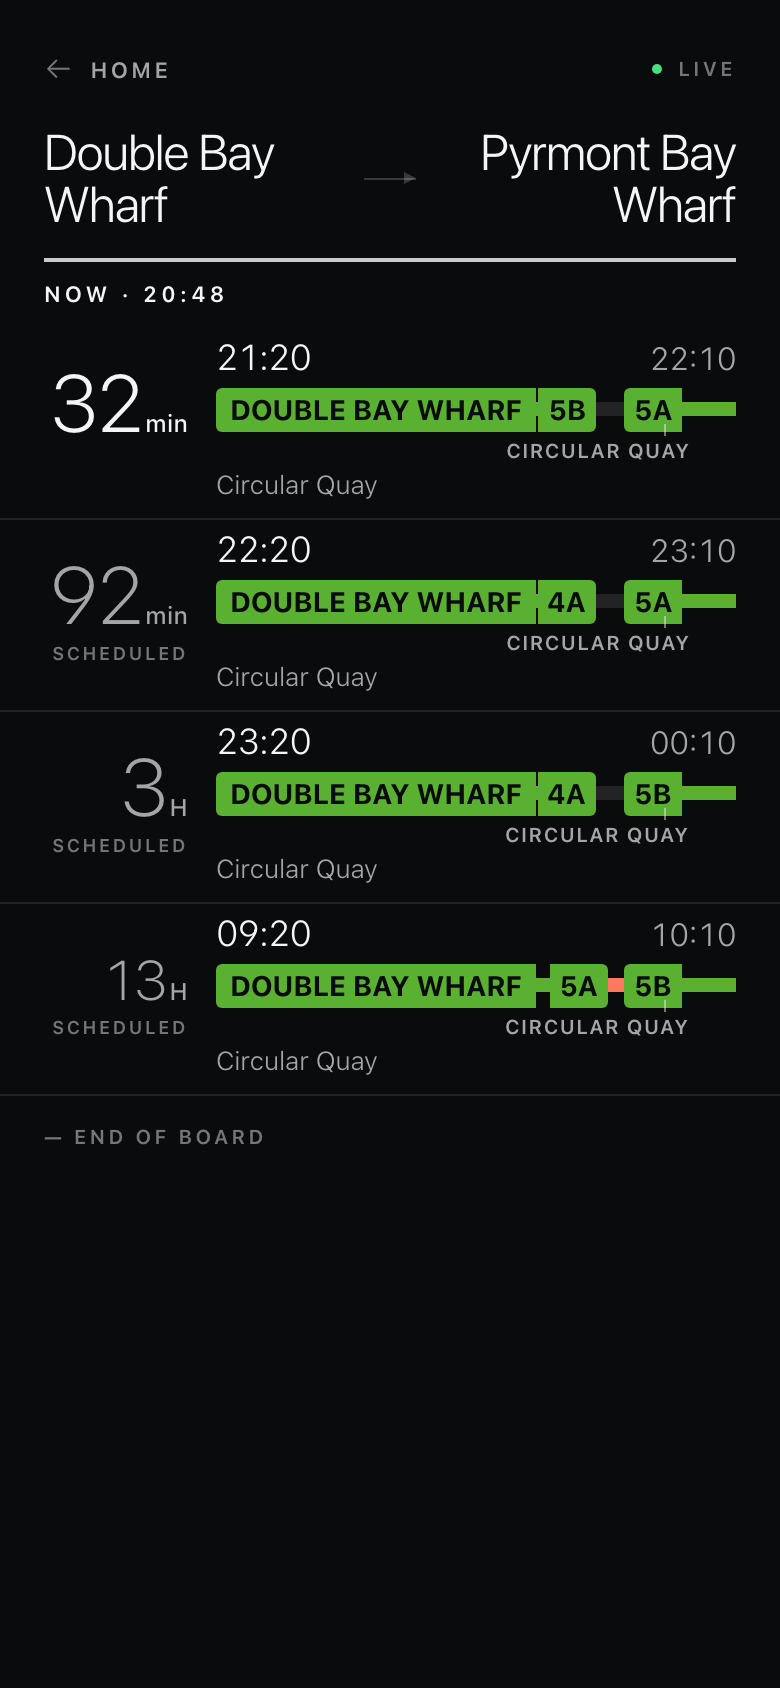
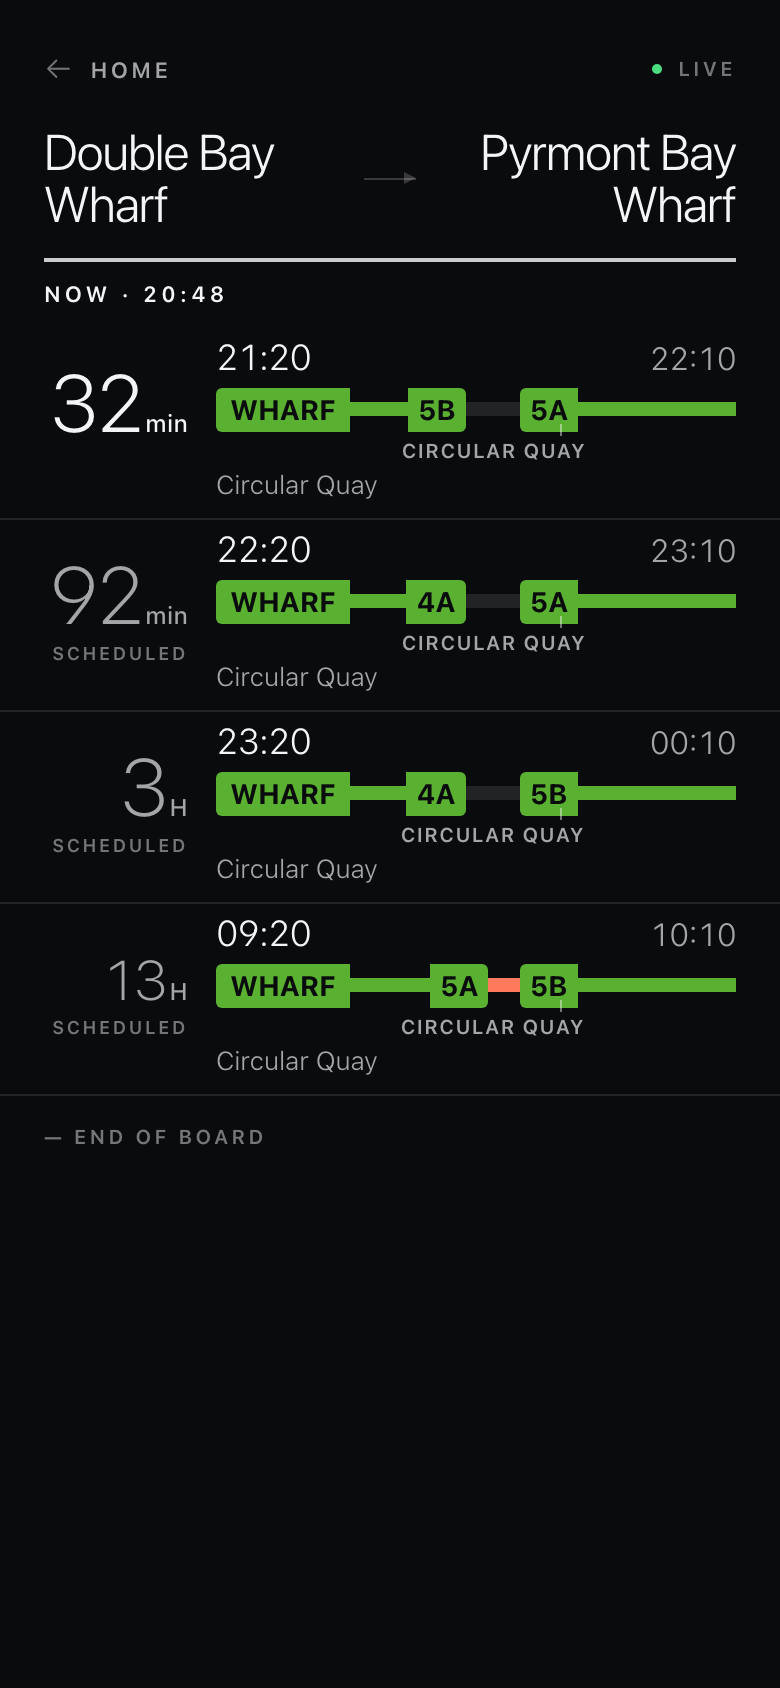
Calibrate unnumbered Wharf fallback

diff --git a/tools/shoot-states.js b/tools/shoot-states.js
@@ -239,6 +239,28 @@ async function states() {
   const pyrmontDoubleBayBody = readFixture('departures_pyrmont_doublebay.json');
   const doubleBayPyrmontBody = readFixture('departures_doublebay_pyrmont.json');
   const circularQuayManlyBody = readFixture('departures_circularquay_manly.json');
+  const sideOnlySource = cockatooBalmainBody();
+  const sideOnlyLeg = sideOnlySource.journeys[0].legDetail[1];
+  const sideOnlyBody = {
+    from: { ...sideOnlyLeg.from, modes: ['ferry'] },
+    to: { ...sideOnlyLeg.to, modes: ['ferry'] },
+    generatedAt: sideOnlySource.generatedAt,
+    journeys: [{
+      departure: sideOnlyLeg.departure,
+      arrival: sideOnlyLeg.arrival,
+      line: sideOnlyLeg.line,
+      destinationHeadsign: sideOnlyLeg.headsign,
+      stopsAway: null,
+      cancelled: sideOnlyLeg.cancelled,
+      legDetail: [sideOnlyLeg]
+    }]
+  };
+  const sideOnlyTrip = {
+    id: 'trip-cockatoo-balmain-side-only',
+    from: sideOnlyBody.from,
+    to: sideOnlyBody.to,
+    createdAt: '2026-09-05T08:04:00+10:00'
+  };
   const loc = (role, stop, raw, visible = raw) => `${role}|${stop}|${raw}|${visible}`;
   const pyrmontRows = [
     [loc('alight', 'Circular Quay', 'Wharf 4, Side B', '4B'), loc('board', 'Circular Quay', 'Wharf 4, Side B', '4B')],
@@ -1064,9 +1086,9 @@ async function states() {
       expect: {
         boardHeader: ['Pyrmont Bay Wharf', 'Double Bay Wharf'],
         equalHeaderLines: true,
-        caps: Array(4).fill('Pyrmont Bay Wharf'),
+        caps: Array(4).fill('Wharf'),
         ferryLocations: pyrmontRows.flatMap((row) => [
-          loc('origin', 'Pyrmont Bay Wharf', 'Pyrmont Bay Wharf'), ...row
+          loc('origin', 'Pyrmont Bay Wharf', 'Pyrmont Bay Wharf', 'Wharf'), ...row
         ]),
         copy: ['Circular Quay'],
         accessibleCopy: ['Pyrmont Bay Wharf'],
@@ -1079,9 +1101,9 @@ async function states() {
       expect: {
         boardHeader: ['Double Bay Wharf', 'Pyrmont Bay Wharf'],
         equalHeaderLines: true,
-        caps: Array(4).fill('Double Bay Wharf'),
+        caps: Array(4).fill('Wharf'),
         ferryLocations: doubleBayRows.flatMap((row) => [
-          loc('origin', 'Double Bay Wharf', 'Double Bay Wharf'), ...row
+          loc('origin', 'Double Bay Wharf', 'Double Bay Wharf', 'Wharf'), ...row
         ]),
         copy: ['Circular Quay'],
         accessibleCopy: ['Double Bay Wharf'],
@@ -1098,15 +1120,25 @@ async function states() {
         ferryCodes: ['F1']
       }
     }),
+    ferry('ferry-side-only-control', sideOnlyBody, {
+      trip: sideOnlyTrip,
+      now: Date.parse(sideOnlyBody.generatedAt),
+      expect: {
+        boardHeader: ['Cockatoo Island Wharf', 'Balmain Wharf'],
+        caps: ['Side A'],
+        ferryLocations: [loc('origin', 'Cockatoo Island Wharf', 'Side A')],
+        ferryCodes: ['F8']
+      }
+    }),
     ferry('ferry-pyrmont-home', pyrmontDoubleBayBody, {
       trip: TRIP_PYRMONT_DOUBLE_BAY,
       route: '#/',
       now: Date.parse(pyrmontDoubleBayBody.generatedAt),
       expect: {
         status: 'Next ferry',
-        caps: ['Pyrmont Bay Wharf'],
+        caps: ['Wharf'],
         ferryLocations: [
-          loc('origin', 'Pyrmont Bay Wharf', 'Pyrmont Bay Wharf'), ...pyrmontRows[0]
+          loc('origin', 'Pyrmont Bay Wharf', 'Pyrmont Bay Wharf', 'Wharf'), ...pyrmontRows[0]
         ],
         ferryCodes: ['F4', 'F7']
       }
@@ -1118,9 +1150,9 @@ async function states() {
       focus: pyrmontDoubleBayBody.journeys[1],
       expect: {
         status: 'Running',
-        caps: ['Pyrmont Bay Wharf'],
+        caps: ['Wharf'],
         ferryLocations: [
-          loc('origin', 'Pyrmont Bay Wharf', 'Pyrmont Bay Wharf'), ...pyrmontRows[1]
+          loc('origin', 'Pyrmont Bay Wharf', 'Pyrmont Bay Wharf', 'Wharf'), ...pyrmontRows[1]
         ],
         ferryCodes: ['F4', 'F7']
       }
@@ -1154,9 +1186,9 @@ async function states() {
       now: Date.parse(doubleBayPyrmontBody.generatedAt),
       expect: {
         status: 'Next ferry',
-        caps: ['Double Bay Wharf'],
+        caps: ['Wharf'],
         ferryLocations: [
-          loc('origin', 'Double Bay Wharf', 'Double Bay Wharf'), ...doubleBayRows[0]
+          loc('origin', 'Double Bay Wharf', 'Double Bay Wharf', 'Wharf'), ...doubleBayRows[0]
         ],
         ferryCodes: ['F7', 'F4']
       }
@@ -1168,9 +1200,9 @@ async function states() {
       focus: doubleBayPyrmontBody.journeys[0],
       expect: {
         status: 'Running',
-        caps: ['Double Bay Wharf'],
+        caps: ['Wharf'],
         ferryLocations: [
-          loc('origin', 'Double Bay Wharf', 'Double Bay Wharf'), ...doubleBayRows[0]
+          loc('origin', 'Double Bay Wharf', 'Double Bay Wharf', 'Wharf'), ...doubleBayRows[0]
         ],
         ferryCodes: ['F7', 'F4']
       }
@@ -1182,11 +1214,11 @@ async function states() {
       expect: {
         rail: true,
         compactPromoted: true,
-        caps: ['Pyrmont Bay Wharf'],
+        caps: ['Wharf'],
         ferryLocations: [
-          loc('origin', 'Pyrmont Bay Wharf', 'Pyrmont Bay Wharf'),
+          loc('origin', 'Pyrmont Bay Wharf', 'Pyrmont Bay Wharf', 'Wharf'),
           ...pyrmontRows[1],
-          loc('origin', 'Pyrmont Bay Wharf', 'Pyrmont Bay Wharf'),
+          loc('origin', 'Pyrmont Bay Wharf', 'Pyrmont Bay Wharf', 'Wharf'),
           ...pyrmontRows[1],
           loc('arrival', 'Double Bay Wharf', 'Double Bay Wharf', '—')
         ],
@@ -1203,11 +1235,11 @@ async function states() {
       expect: {
         rail: true,
         compactPromoted: true,
-        caps: ['Double Bay Wharf'],
+        caps: ['Wharf'],
         ferryLocations: [
-          loc('origin', 'Double Bay Wharf', 'Double Bay Wharf'),
+          loc('origin', 'Double Bay Wharf', 'Double Bay Wharf', 'Wharf'),
           ...doubleBayRows[0],
-          loc('origin', 'Double Bay Wharf', 'Double Bay Wharf'),
+          loc('origin', 'Double Bay Wharf', 'Double Bay Wharf', 'Wharf'),
           ...doubleBayRows[0],
           loc('arrival', 'Pyrmont Bay Wharf', 'Pyrmont Bay Wharf', '—')
         ],

diff --git a/docs/contracts/ui.md b/docs/contracts/ui.md
@@ -511,22 +511,23 @@ the same change as this contract, and git keeps the history. Every frame in it
 is a `tools/shoot-states.js` shot of the built client, so a frame no state can
 produce is removed rather than left to rot.
 
-The set is forty-four frames:
+The set is forty-five frames:
 
 - Board: `board-390x844-hero.png` plus its `past`, `delayed`, `cancelled`,
   `long`, `two-change` and `hero-light` variants, and `board-412x732-hero.png`.
   `two-change` is the two-transfer row grammar.
 - Ferry board: `board-390x844-ferry-pyrmont.png`,
-  `board-390x844-ferry-doublebay.png` and `board-390x844-ferry-numeric.png`
-  preserve the equal-column header, full named origin caps in both
-  directions, compact transfer number/side markers with their true
-  alight/board associations, and full initial numeric/side caps respectively.
+  `board-390x844-ferry-doublebay.png`, `board-390x844-ferry-numeric.png` and
+  `board-390x844-ferry-side-only.png` preserve the equal-column header, the
+  generic `Wharf` fallback for named-only origins in both directions, compact
+  transfer number/side markers with their true alight/board associations, and
+  unchanged full numeric/side-only initial caps.
 - Journey detail: `detail-390x844-hero.png` plus its `tight`, `cancelled`,
   `direct`, `long`, `departed`, `focused` and `hero-light` variants, and
   `detail-412x732-hero.png` with its `tight`, `cancelled` and `long` variants.
   `departed` is the post-departure promoted row under `TO CHANGE`; `focused` is
   the already-focused journey, which carries no action rail.
-- Ferry detail: `detail-390x844-ferry-pyrmont.png` carries the full named
+- Ferry detail: `detail-390x844-ferry-pyrmont.png` carries the generic `Wharf`
   origin cap, the compact `5B` to `4B` transfer and its full secondary
   boarding instruction. `detail-390x844-ferry-numeric.png` preserves the full
   initial `Wharf 4, Side B` cap.
@@ -537,10 +538,10 @@ The set is forty-four frames:
   departs, `late` the `RUNNING LATE` treatment, and `back` the return direction
   with its real transfer platforms after the offer is accepted.
 - Ferry smart home: `home-390x844-ferry-pyrmont-focused.png` calibrates the
-  full named origin with the compact `5B` to `4B` transfer;
+  generic `Wharf` origin with the compact `5B` to `4B` transfer;
   `home-390x844-ferry-numeric-focused.png` calibrates the full initial
   `Wharf 4, Side B` cap. `home-925x844-ferry-pyrmont-focused.png` carries the
-  same full named origin at desktop width.
+  same generic origin at desktop width.
 - Location-first home: `home-390x844-inferred.png` and its `inferred-light`
   variant are inferred travel mode carrying the `Going somewhere else?` line;
   `home-390x844-just-added.png` is the open on which the app saved the pair it

diff --git a/tools/README.md b/tools/README.md
@@ -167,8 +167,9 @@ What is checked, with the comp probes the numbers come from:
 - countdown units stay at least 12px even when an hours figure uses smaller
   numerals;
 - every change on a row names its station and its boarding platform, inside
-  the frame; ferry origins keep the full raw label while compact transfer
-  markers keep their full raw label, role and stop association in data;
+  the frame; ferry origins keep the full raw label in data while their visible
+  cap follows the named-only `Wharf` fallback, and compact transfer markers
+  keep their full raw label, role and stop association in data;
 - actual text ranges keep transfer names clear of headsigns, boarding markers
   clear of each other, and step text/chips at least 4px inside their dividers;
   visible ferry labels stay at least 14px, remain unclipped, and detail keeps
@@ -287,7 +288,7 @@ change the produced filename, not the state, so rename by an explicit table and
 then **read every frame**: a stale `OFFLINE` board or a withheld figure is a
 convincing shot of the wrong screen, and so is the wrong route.
 
-The table, all forty-four frames. `default` means no flags: the state carries its
+The table, all forty-five frames. `default` means no flags: the state carries its
 own size and the dark scheme is unsuffixed.
 
 | Exemplar | State | Invocation |
@@ -303,6 +304,7 @@ own size and the dark scheme is unsuffixed.
 | `board-390x844-ferry-pyrmont.png` | `ferry-pyrmont` | default |
 | `board-390x844-ferry-doublebay.png` | `ferry-doublebay` | default |
 | `board-390x844-ferry-numeric.png` | `ferry-numeric-control` | default |
+| `board-390x844-ferry-side-only.png` | `ferry-side-only-control` | default |
 | `detail-390x844-hero.png` | `detail-hero` | default |
 | `detail-390x844-tight.png` | `detail-tight` | default |
 | `detail-390x844-cancelled.png` | `detail-cancelled` | default |
@@ -338,8 +340,10 @@ own size and the dark scheme is unsuffixed.
 | `setup-390x844-origin.png` | `setup-origin` | default |
 
 The focused Pyrmont state selects its captured 22:11 journey, whose Circular
-Quay transfer is `5B` to `4B`; it keeps the full `Pyrmont Bay Wharf` origin
-cap. The reverse focused state keeps `Double Bay Wharf` and uses `5B` to `5A`.
+Quay transfer is `5B` to `4B`; its raw `Pyrmont Bay Wharf` origin presents as
+`Wharf`. The reverse focused state applies the same fallback to `Double Bay
+Wharf` and uses `5B` to `5A`. `ferry-side-only-control` proves that a supplied
+`Side A` stays visible rather than taking the named-only fallback.
 `ferry-numeric-home-focused` and `ferry-numeric-detail` select the captured
 Circular Quay departure from `Wharf 4, Side B` so the full initial label is
 calibrated separately from compact transfer markers.
